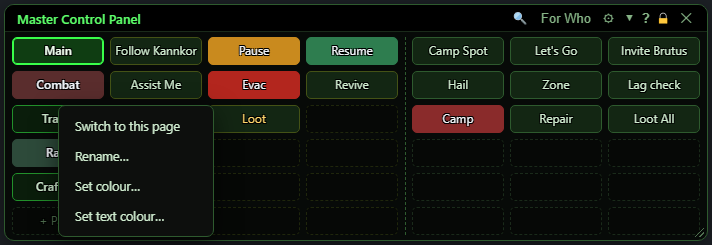
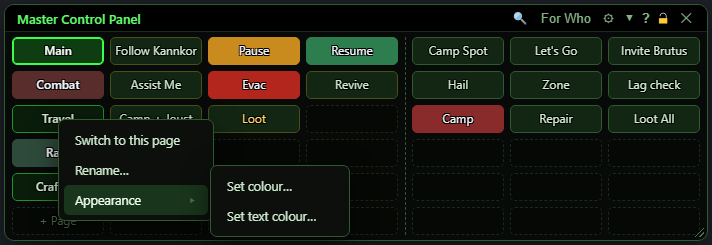
New OgreBot docs: publish the "OgreBot" section (EQ2/bot/)
Generated output from the private docs source (Scripts 4c504ff0d+uncommitted); linted for gated names, mkdocs build --strict and link check green.

diff --git a/docs/EQ2/bot/whats-new.md b/docs/EQ2/bot/whats-new.md
@@ -10,6 +10,22 @@ A release is named by the day it was published and its number that day: **2026.1
 
 Dates and times are US Eastern time (EST in winter, EDT in summer).
 
+## 2026.11.23.001 {#r2026-11-23-001}
+
+*Monday, November 23, 2026 at 11:09 PM EST*
+
+- **New** · Bot: **A Cast Stack separator can have a label.** Click a separator line in the Cast order to type a label for it, such as "Cures and Rezzes". A separator is now its own kind of entry, which the bot always skips. Separators from OldBot, including ones you labelled by hand, are converted when the profile loads, so a labelled one no longer shows as a crossed-out ability.
+- **Changed** · Bot: **Ogre IM says why it skipped an item whose ability did not get ready.** When Ogre IM skipped an item because its Salvaging, Transmuting or Extracting ability did not get ready, it always said "the ability never armed", whatever the cause. It now says which of four things happened: another cast (named) took the bar first, the cast failed, the cast was still going when the wait ran out, or the cast went through but the game never became ready to use it on the item. Nothing is clicked in any of them, as before.
+- **Changed** · Windows: **The MCP's colour and text size items are under one Appearance item.** Right-click a button and point at Appearance for Set colour, Set text colour and Set text size. A page's Set colour and Set text colour are under Appearance too.
+- **Fixed** · Bot: **Ogre IM salvage works again - it no longer skips every item as "never armed".** `ogre im tse -salvage` skipped every item with "the Salvaging ability never armed", because Salvage shows no cast bar and no cooldown, so the bot thought it never went off. It now sees Salvage go off and salvages the item. An item the game will not salvage ("cannot be salvaged", or "is NO-VALUE and cannot be salvaged") is skipped at once, and a single item whose click did nothing is tried once more before it is given up.
+- **Fixed** · Bot: **The Cast Stack's end-of-stack marker works again, as its own line.** An "END OF CAST STACK" marker carried over from OldBot was ignored, so the entries you had parked below it were cast. The marker now becomes its own "End of cast stack" line when your profile loads; nothing below it runs, and those rows are drawn dim. Add one with "+ end of stack", drag it into place, and double-click it to switch it off.
+- **Fixed** · Windows: **"Only abilities I don't have yet" now adds AA abilities that replace a spell.** With "Only abilities I don't have yet", the export skipped AA abilities that replace a spell line, such as the Mystic's Chilling Strike, Glacial Strike, Plagueish Strike and Circle of the Ancients, as if they were already in your export. It now adds them, and it no longer looks up every rank of those spells again on each run.
+- **Fixed** · Windows: **An MCP NavTo button sends everyone to where you stand.** An MCP button's number fields refused a value such as ${Me.Y}, so a NavTo button could not send everyone to your spot. They now take one, and it is read on the character that presses the button. NavTo's x, y and z now default to where the sender stands, so pressing Enter through an asking NavTo button, or sending -NavTo with them left blank, brings everyone to you.
+- **Fixed** · Windows: **OSA and the HUDs list mobs that turn attackable.** In zones where mobs start out unattackable and turn into NPCs later, such as The Protector's Realm and Venril Sathir's Lair, the OSA list stayed empty, even for the named you were fighting. The bot now re-checks what type each mob is every couple of seconds, so such a mob appears shortly after it turns, and the HUDs and anything that counts mobs by type see it too.
+- **Fixed** · Instance Controller: **Gra'ta the Mountain is now fought out in the open.** In The Fabled Zavith'loa: The Lost Caverns [Solo] and [Heroic], the group now moves to a fight spot out in the open for Gra'ta the Mountain. The old spot was on a ledge, and when Gra'ta stopped on the slope below it, the bots could not see him to cast. They only auto-attacked, and one fight took 12 minutes instead of about one.
+- **Fixed** · Crafting: **Craft Grandmasters no longer crafts a recipe whose name only contains the one it wants.** When the matching Grandmaster recipe was not in your recipe book, Craft Grandmasters could pick a different recipe whose name contained it, such as "Natural Infusion III" for "Fusion III", and the run then stopped short of that recipe's Master. It now crafts only the exact "(Grandmaster)" recipe, and says when a recipe is not in your book and is skipped.
+- **Fixed** · Setup: **A PC clock running fast now says so at sign-in, not "could not be verified".** When your PC's clock was running about 10 minutes fast, sign-in failed with "The server's response could not be verified." It now says your clock is ahead of the login server's and to sync it (Windows Settings, Time & language, **Sync now**), then type `ext isxogrex` again.
+
 ## 2026.11.20.003 {#r2026-11-20-003}
 
 *Friday, November 20, 2026 at 5:04 PM EST*

diff --git a/docs/EQ2/bot/windows/mcp.md b/docs/EQ2/bot/windows/mcp.md
@@ -63,8 +63,8 @@ Each page is its own set of buttons for the right-hand block. The static block d
 | **Drag a page** | Moves the page up or down the list. A line shows where it will land. You stay on the same page.<br>*Keys assigned to buttons follow the buttons, so moving pages does not change what a key presses.* | on (needs Allow moving) |
 | **Right-click a page > Switch to this page** | Same as clicking the page. |  |
 | **Right-click a page > Rename…** | Opens a small box to type the page name (up to 40 letters). An empty name becomes 'Page N'. |  |
-| **Right-click a page > Set colour…** | Opens the colour picker for the page selector's background. Reset takes the colour off again. |  |
-| **Right-click a page > Set text colour…** | Opens the colour picker for the page name's text. Auto goes back to a colour that reads well on the background. |  |
+| **Right-click a page > Appearance > Set colour…** | Opens the colour picker for the page selector's background. Reset takes the colour off again. |  |
+| **Right-click a page > Appearance > Set text colour…** | Opens the colour picker for the page name's text. Auto goes back to a colour that reads well on the background. |  |
 | **Right-click a page > Delete page…** | Asks you to type the page's exact name, then removes the page, all its buttons and any keys assigned to them. You stay on the page you were on.<br>*Only shown when 'Allow deleting pages' is ticked and there is more than one page.* |  |
 
 
@@ -96,7 +96,7 @@ The block to the right of the dashed line. It shows the buttons of the page you 
 
 ## Right-click a button
 
-Right-click any button slot for this menu. On an empty slot, Assign to key and Copy button are not shown.
+Right-click any button slot for this menu. Set colour, Set text colour and Set text size are under Appearance: point at it and they open beside it. On an empty slot, Assign to key and Copy button are not shown.
 
 [![Right-click a button](../assets/mcp/menu-button.png)](../assets/mcp/menu-button.png "Click for full size")
 
@@ -104,9 +104,9 @@ Right-click any button slot for this menu. On an empty slot, Assign to key and C
 |---|---|
 | **Build command…** | Opens the Build command window to make or change what this button sends, and its label. |
 | **Rename…** | Changes the text on the button (up to 40 letters). Renaming an empty slot makes a button with just a label.<br>*A button needs a name: an empty name is refused and the box says so. To remove a button, use Clear button.* |
-| **Set colour…** | Opens the colour picker for the button's background. The text colour adjusts itself to stay readable unless you set one. Reset takes the colour off again. |
-| **Set text colour…** | Opens the colour picker for the button's text. Auto goes back to the automatic readable colour. |
-| **Set text size…** | Gives this button its own text size, from 6 to 40. Leave it blank to go back to the size in the MCP settings. |
+| **Appearance > Set colour…** | Opens the colour picker for the button's background. The text colour adjusts itself to stay readable unless you set one. Reset takes the colour off again. |
+| **Appearance > Set text colour…** | Opens the colour picker for the button's text. Auto goes back to the automatic readable colour. |
+| **Appearance > Set text size…** | Gives this button its own text size, from 6 to 40. Leave it blank to go back to the size in the MCP settings. |
 | **Assign to key…** | Opens the Assign keys window for this button, to fire it from a keyboard key, a G-key or an extra mouse button. The key belongs to the button: move the button, or move its page, and the key still presses it.<br>*Only shown on a slot that has a button. Clearing the button, or deleting its page, removes its keys.* |
 | **Copy button** | Remembers the button (label, command and colours) for pasting, and puts a code for it on your Windows clipboard so you can share it. The code starts with OGREMCP1.<br>*Only shown on a slot that has a button.* |
 | **Paste "<name>" [over "<name>"]** | Puts the copied button into this slot. The menu names the button, and the one it would replace.<br>*The copied button is shared by every character on this PC, so you can copy on one and paste on another. Pasting over a button keeps that button's keys, so they now press what you pasted.* |

diff --git a/docs/EQ2/bot/ogrebot/cast-stack.md b/docs/EQ2/bot/ogrebot/cast-stack.md
@@ -43,6 +43,7 @@ The Cast Stack is the bot's main casting list. Every turn the bot walks the Cast
 | **Ctrl+click / Shift+click a name** | Ctrl+click adds or removes one entry from the selection; Shift+click selects every entry from the last one you clicked. Selected entries are outlined and the heading counts them. Drag any selected entry to move them all together. A plain click selects just that entry. |
 | **Double-click an entry** | Switches the entry off or back on. A switched-off entry is struck through and never cast, but keeps its place. |
 | **✕ (remove)** | Removes the entry. The Undo button below can put it back. |
+| **+ end of stack** | Adds an end-of-stack line at the bottom of the Cast order: nothing below it runs, and the rows below it are drawn dim. Drag it to where the stack should end. Double-click it to switch it off, so the rows below run again.<br>*Only the first switched-on end of the stack counts. An end marker from OldBot becomes one of these when its profile loads, switched off if it was disabled.* |
 | **↶ Undo remove (N)** | Puts the last removed entry back where it was. It remembers up to 25 removals. |
 
 
@@ -59,7 +60,8 @@ The Cast Stack is the bot's main casting list. Every turn the bot walks the Cast
 - The Setup tab's '% Health / % Power req. to use CAs' and '% NPC HP to attack' apply to CA and Debuff entries unless the entry has its own My HP, My MP or NPC HP condition.
 - The Disable CS_ boxes on the Settings tab switch whole Types off without touching this list.
 - Edits apply to the running bot straight away, but only Save (top of the window) writes them to your profile. Reload throws unsaved edits away.
-- '+ separator' lines are only for your eyes; the bot skips them.
+- '+ separator' lines are only for your eyes; the bot skips them. Click one to give it a label.
+- Nothing below a switched-on 'End of cast stack' line runs; those rows are drawn dim. Double-click the line to switch it off.
 - 'Use when' limits an entry to where you are: Solo / Duo (1-2) is a group of 1 or 2 players, Group (3+) is 3 or more, Raid is any raid whatever its groups. A mercenary does not count as a player. Tick more than one to allow more than one; none ticked means the entry is used everywhere.
 - 'Named Or Epic NPC' (under Named NPCs Only) casts only at a named or an epic target. 'Force NamedCA' on the Settings tab counts every target as named.
 

diff --git a/docs/EQ2/bot/windows/mcpask.md b/docs/EQ2/bot/windows/mcpask.md
@@ -1,8 +1,8 @@
-# Ask
-
 <div class="ogre-beta" markdown>
 **OgreBot is in beta testing.** Looking for OgreBot Classic? [Click here](../../index.md).
 </div>
+
+# Ask
 
 > **:bulb: In game - the ? button on this window says**
 >
@@ -37,9 +37,11 @@ One field per setting of each command on the button, in order, under the command
 |---|---|
 | **For who** | Which characters it is for: all, a name, a class, igw:${Me.Name} for your group, or anything the For Who window takes. Blank keeps the button's, and auto means the For Who window. |
 | **me** | Typed in a field about a character (for who, assist who, follow who), me means the character pressing the button. |
-| **Numbers and TRUE / FALSE** | A number field takes only a number, and a TRUE / FALSE field takes true, false, yes, no, on, off, 1 or 0. |
+| **Numbers and TRUE / FALSE** | A number field takes a number, or a value such as ${Me.Y}, which is read on the box that sends the button: ${Me.Y} is your Y. A TRUE / FALSE field takes true, false, yes, no, on, off, 1 or 0.<br>*NavTo's x, y and z start as ${Me.X} ${Me.Y} ${Me.Z}, so pressing Enter through them sends everyone to where you stand.* |
 | **Send** | Sends the button with your answers and closes the window. |
 | **Cancel** | Closes the window. Nothing is sent. |
+
+
 
 ## No mouse needed
 
@@ -53,6 +55,8 @@ The cursor starts in the first field, so you can type straight away.
 | **Enter** | The next field. On the last field it sends. |
 | **Esc** | Closes the window without sending. |
 | **The red line** | Says why a press was refused - a number field holding text, or a starred field left empty - and the cursor goes to that field. |
+
+
 
 ## Good to know
 

diff --git a/docs/EQ2/bot/developer/api/commands/console-d-n.md b/docs/EQ2/bot/developer/api/commands/console-d-n.md
@@ -1,8 +1,8 @@
-# Console commands: D-N
-
 <div class="ogre-beta" markdown>
 **OgreBot is in beta testing.** Looking for OgreBot Classic? [Click here](../../../../index.md).
 </div>
+
+# Console commands: D-N
 
 ## `-DeleteQuest`
 
@@ -1497,14 +1497,14 @@ oc !c -NavStop igw:${Me.Name}
 
 Also: `-nav-to`, `-nav_to`
 
-Nav (the mesh router) to an x y z, or to a point of interest in this zone. It waits while OgreBot is paused and stops when OgreBot closes. It leaves an encounter's trip alone.
+Nav (the mesh router) to an x y z, or to a point of interest in this zone. Left blank, x y z are where the box that sends the line stands, so everyone comes to you. It waits while OgreBot is paused and stops when OgreBot closes. It leaves an encounter's trip alone.
 
 | Parameter | Type | Default | Meaning |
 |---|---|---|---|
 | `who` | forwho | `auto` | Who navs - leave blank to use the For Who window. |
-| `x` | string |  | X, or the name of a point of interest in this zone |
-| `y` | float |  |  |
-| `z` | float |  |  |
+| `x` | string | `${Me.X}` | X, or the name of a point of interest in this zone |
+| `y` | float | `${Me.Y}` | Y |
+| `z` | float | `${Me.Z}` | Z |
 | `fly` | string | `nofly` | fly flies the trip; nofly walks it. |
 
 Runs: `OgreBotAPI.Movement:NavTo`
